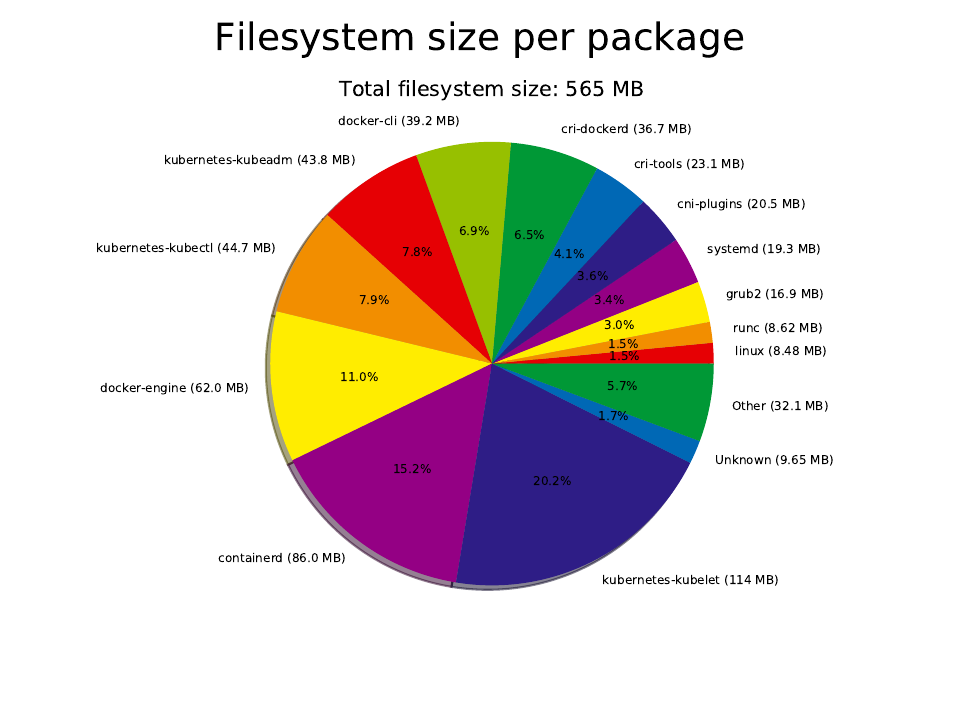
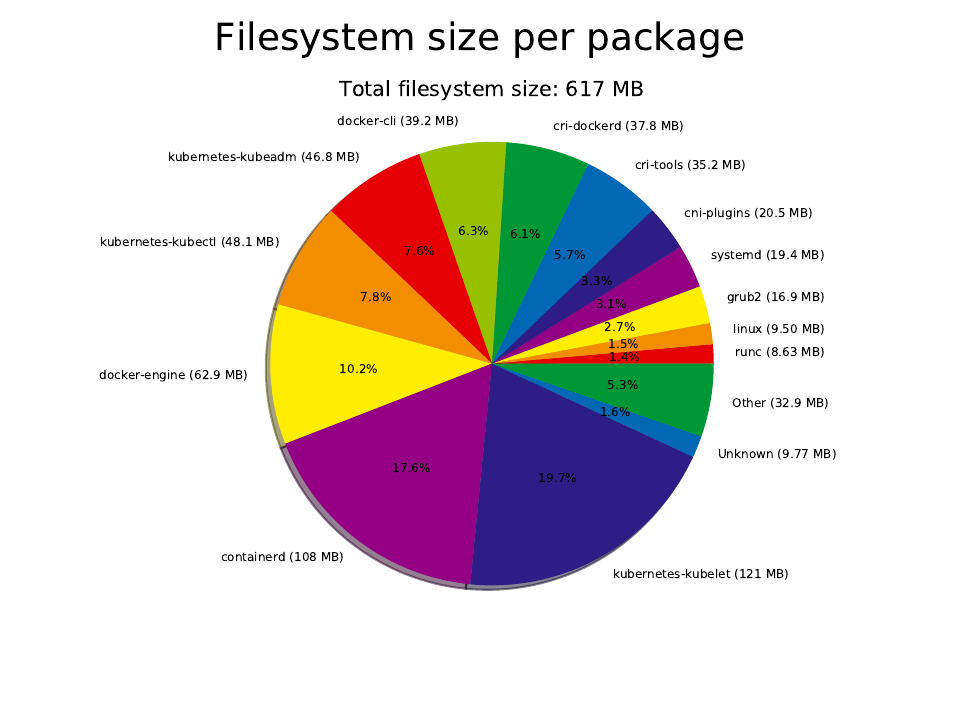
Update information for kubernetes 1.26.0

diff --git a/README.md b/README.md
@@ -41,7 +41,7 @@ Bootable image:
 
 x86_64
 ```
-176M	output/disk.img.gz
+192M	output/disk.img.gz
 ```
 
 Flashable image:
@@ -54,28 +54,28 @@ aarch64
 Kubernetes bin:
 
 ```
-43M	/usr/bin/kubeadm
-44M	/usr/bin/kubectl
-111M	/usr/bin/kubelet
+45M	/usr/bin/kubeadm
+46M	/usr/bin/kubectl
+116M	/usr/bin/kubelet
 ```
 
 Required images:
 
 ```console
 $ kubeadm config images list
-registry.k8s.io/kube-apiserver:v1.25.0
-registry.k8s.io/kube-controller-manager:v1.25.0
-registry.k8s.io/kube-scheduler:v1.25.0
-registry.k8s.io/kube-proxy:v1.25.0
-registry.k8s.io/pause:3.8
-registry.k8s.io/etcd:3.5.4-0
+registry.k8s.io/kube-apiserver:v1.26.0
+registry.k8s.io/kube-controller-manager:v1.26.0
+registry.k8s.io/kube-scheduler:v1.26.0
+registry.k8s.io/kube-proxy:v1.26.0
+registry.k8s.io/pause:3.9
+registry.k8s.io/etcd:3.5.6-0
 registry.k8s.io/coredns/coredns:v1.9.3
 ```
 
 Additional images:
 
 ```
-docker.io/flannelcni/flannel:v0.19.1
+docker.io/flannelcni/flannel:v0.20.2
 ```
 
 ![image size](image-size.png)
@@ -83,26 +83,26 @@ docker.io/flannelcni/flannel:v0.19.1
 `docker pull` (gzip):
 
 ```
-32M	images/registry.k8s.io/kube-apiserver_v1.25.0
-30M	images/registry.k8s.io/kube-controller-manager_v1.25.0
-15M	images/registry.k8s.io/kube-scheduler_v1.25.0
-19M	images/registry.k8s.io/kube-proxy_v1.25.0
-292K	images/registry.k8s.io/pause_3.8
-97M	images/registry.k8s.io/etcd_3.5.4-0
+33M	images/registry.k8s.io/kube-apiserver_v1.26.0
+31M	images/registry.k8s.io/kube-controller-manager_v1.26.0
+17M	images/registry.k8s.io/kube-scheduler_v1.26.0
+21M	images/registry.k8s.io/kube-proxy_v1.26.0
+304K	images/registry.k8s.io/pause_3.9
+97M	images/registry.k8s.io/etcd_3.5.6-0
 14M	images/registry.k8s.io/coredns/coredns_v1.9.3
-20M	images/docker.io/flannelcni/flannel_v0.19.1
-225M	total
+20M	images/docker.io/flannelcni/flannel_v0.20.2
+230M	total
 ```
 
 `docker save | xz`:
 
 ```
-156M	images.txz
+159M	images.txz
 ```
 
 ```
 Strms  Blocks   Compressed Uncompressed  Ratio  Check   Filename
-    1      47    155.7 MiB    730.6 MiB  0.213  CRC32   images.txz
+    1      48    158,2 MiB    745,9 MiB  0,212  CRC32   images.txz
 ```
 
 Device layout:
